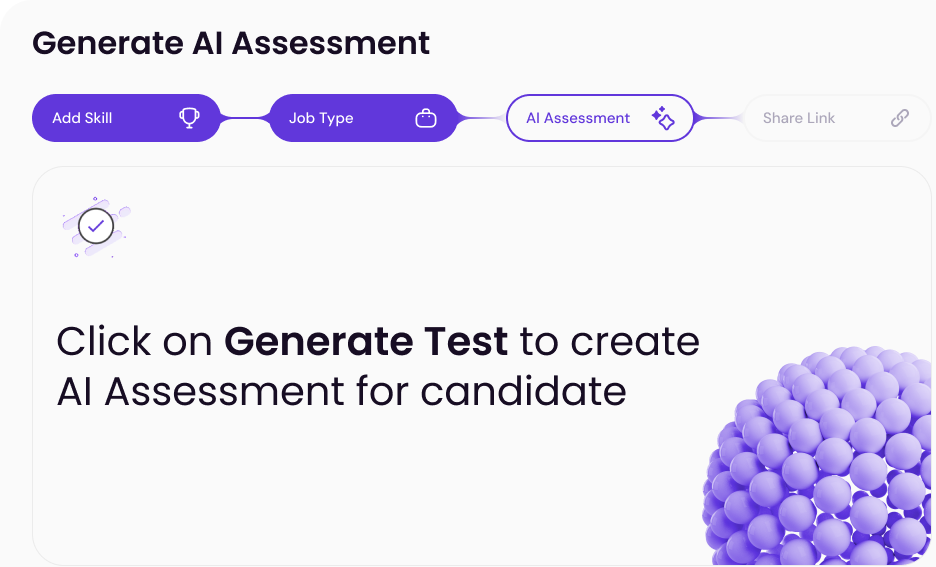
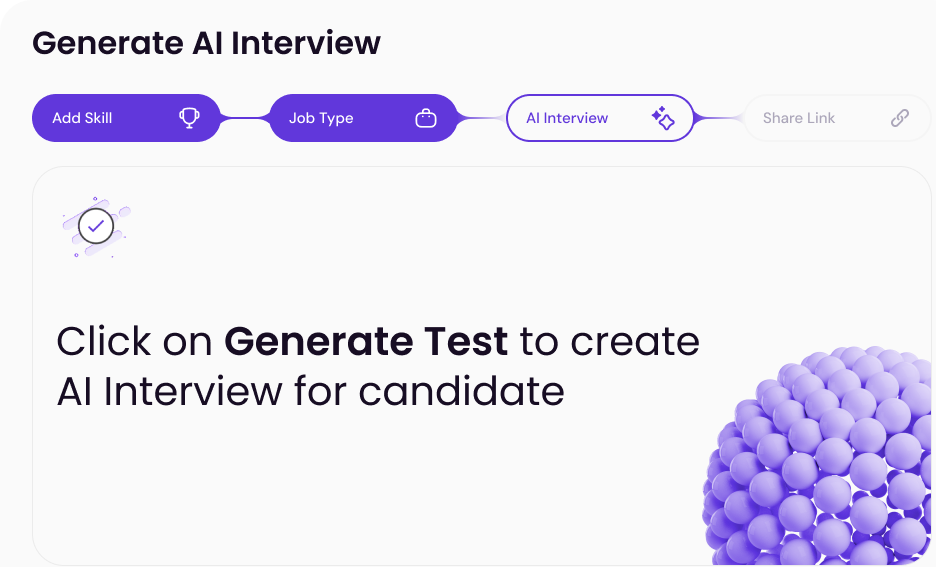
fixes

Changed region(s): [[0.0929, 0.6596, 0.6816, 0.7196], [0.2479, 0.06, 0.4647, 0.1199], [0.5887, 0.1799, 0.6816, 0.2399]]

diff --git a/src/i18n/config.tsx b/src/i18n/config.tsx
@@ -160,8 +160,8 @@ i18n
                 "heading": "Hire an entire team of Developers from us.",
                 "message":
                   "RecruitInn.ai delivered outstanding results, simplifying our hiring process and letting us focus on top candidates effortlessly.",
-                "author": "syed Zubair Alam",
-                "designation": "Founder, Co-VenTech",
+                "author": "Saad Salman",
+                "designation": "Sales Representative",
                 "image": "/avt1.png",
               },
               {
@@ -383,8 +383,8 @@ i18n
                 "id": 1,
                 "heading": "وظّف فريقًا كاملاً من المطورين من خلالنا.",
                 "message": "قدمت RecruitInn.ai نتائج رائعة، حيث بسّطت عملية التوظيف لدينا وجعلتنا نركز على أفضل المرشحين بسهولة.",
-                "author": "سيد زبير عالم",
-                "designation": "المؤسس، Co-VenTech",
+                "author": "سعد سلمان",
+                "designation": "ممثل مبيعات",
                 "image": "/avt1.png"
               },
               {

diff --git a/components/PaymentCard.js b/components/PaymentCard.js
@@ -77,8 +77,14 @@ const PaymentCard = ({
                       width={20}
                       height={20}
                       alt="Feature icon"
+                      style={{opacity: 0}}
                     />
-                    {t("Packages.P1_support")}
+
+                    {/* {t("Packages.P1_support")} */}
+
+                      
+
+
                   </li>
                 ) : (
                   ""
@@ -107,8 +113,9 @@ const PaymentCard = ({
                       width={20}
                       height={20}
                       alt="Feature icon"
+                      style={{opacity: 0}}
                     />
-                    {t("Packages.P2_support")}
+                    {/* {t("Packages.P2_support")} */}
                   </li>
                 ) : (
                   ""

diff --git a/components/Stages.js b/components/Stages.js
@@ -14,6 +14,9 @@ const Stages = ({ currentStage, stages, completedStages, style = {} }) => {
  
  
   function toTitleCase(str) {
+   if(str === 'AI_ASSESSMENT'){
+    str = 'AI_INTERVIEW';
+   }
     return str
       .toLowerCase()
       .split(" ")
@@ -48,7 +51,7 @@ const Stages = ({ currentStage, stages, completedStages, style = {} }) => {
                         }
                   }
                 >
-                  <span>{toTitleCase(stage.replace("_", " "))}</span>
+                  <span>{toTitleCase(stage).replace("_", " ")}</span>
                   <Image
                     src={
                       currentStage === stages[stage]

diff --git a/components/CandidateSelfHub.js b/components/CandidateSelfHub.js
@@ -233,7 +233,7 @@ const CandidatesSelfHub = ({
                       />
                       <h2>Welcome, {name} </h2>
                       <p>
-                        Are you ready to take the AI Assessment to stand out
+                        Are you ready to take the AI Interview to stand out
                         amongst other candidates?
                       </p>
                       {!isDisable && (

diff --git a/components/Banner.js b/components/Banner.js
@@ -9,7 +9,7 @@ const Banner = () => {
     <div className={styles.nBanner}>
       <Image height={50} width={50} src="/successIndicator.svg" />
       <h1>
-        Click on <span>Generate Test</span> to create <br /> AI Assessment for
+        Click on <span>Generate Test</span> to create <br /> AI Interview for
         candidate
       </h1>
     </div>
